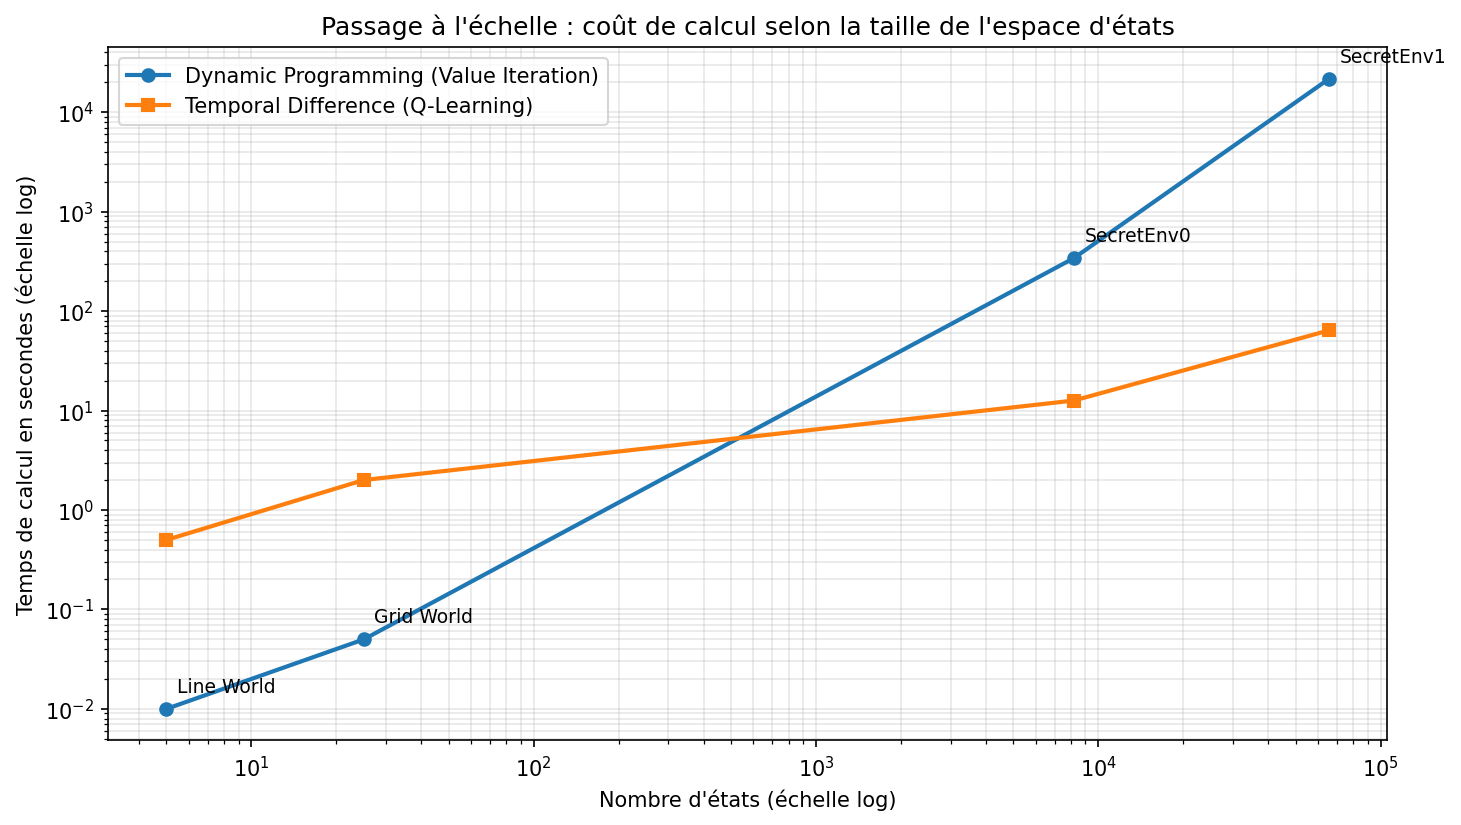
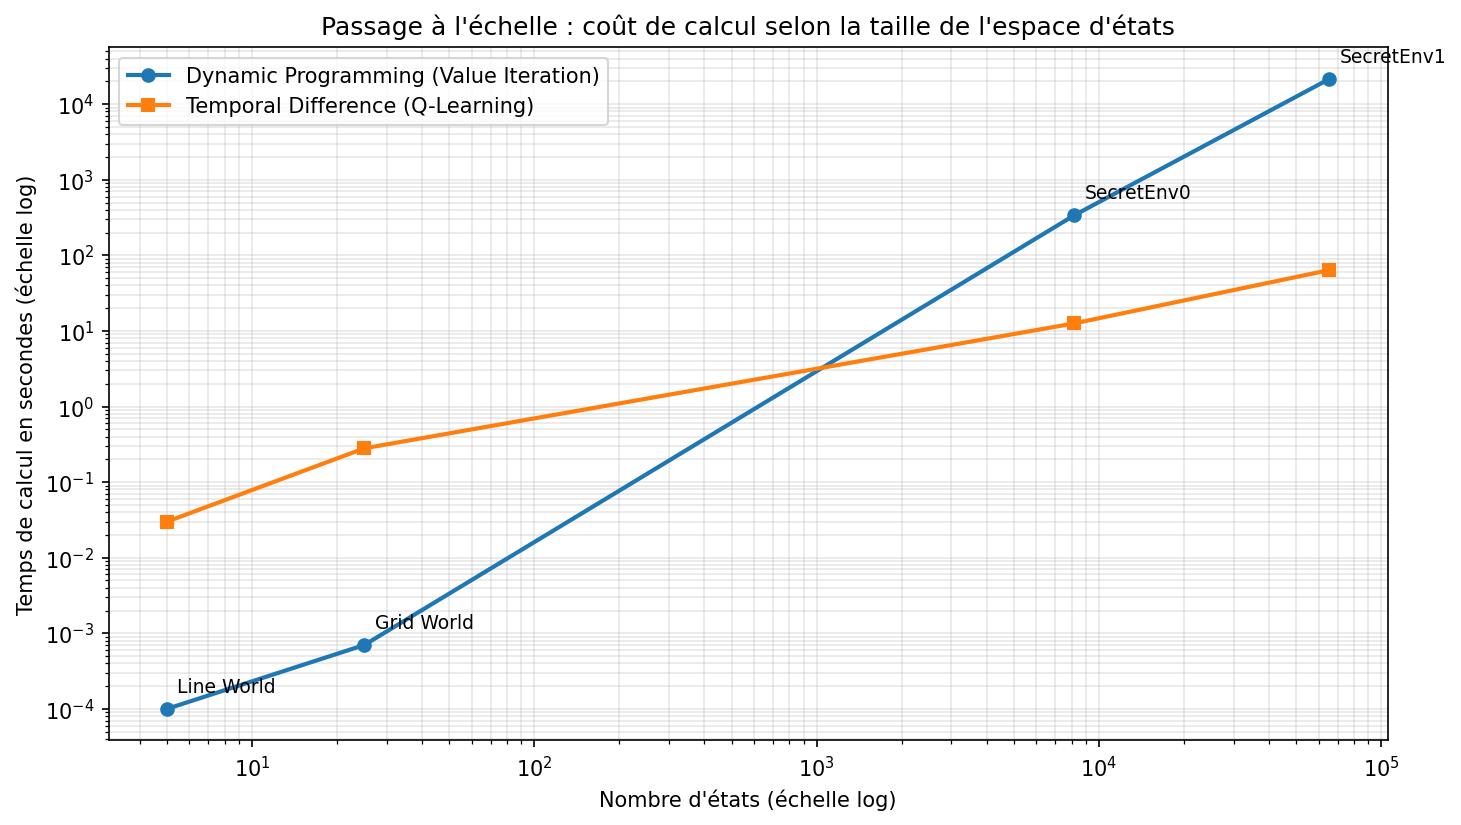
Correction

diff --git a/experimentations_secret.py b/experimentations_secret.py
@@ -34,9 +34,9 @@ def evaluer(env, Q, n_parties=20, max_steps=1000):
 def graphe_scalabilite():
     print("\n=== Graphique 1 : passage à l'échelle (DP vs TD) ===")
 
-    etats     = [5,      25,     8192,   65536]
-    temps_dp  = [0.01,   0.05,   341,    21600] 
-    temps_td  = [0.5,    2.0,    12.6,   63.9]   
+    etats     = [5,       25,      8192,   65536]
+    temps_dp  = [0.0001,  0.0007,  340.3,  21600]
+    temps_td  = [0.03,    0.28,    12.6,   63.9]  
 
     plt.figure(figsize=(11, 6))
     plt.plot(etats, temps_dp, marker="o", linewidth=2,